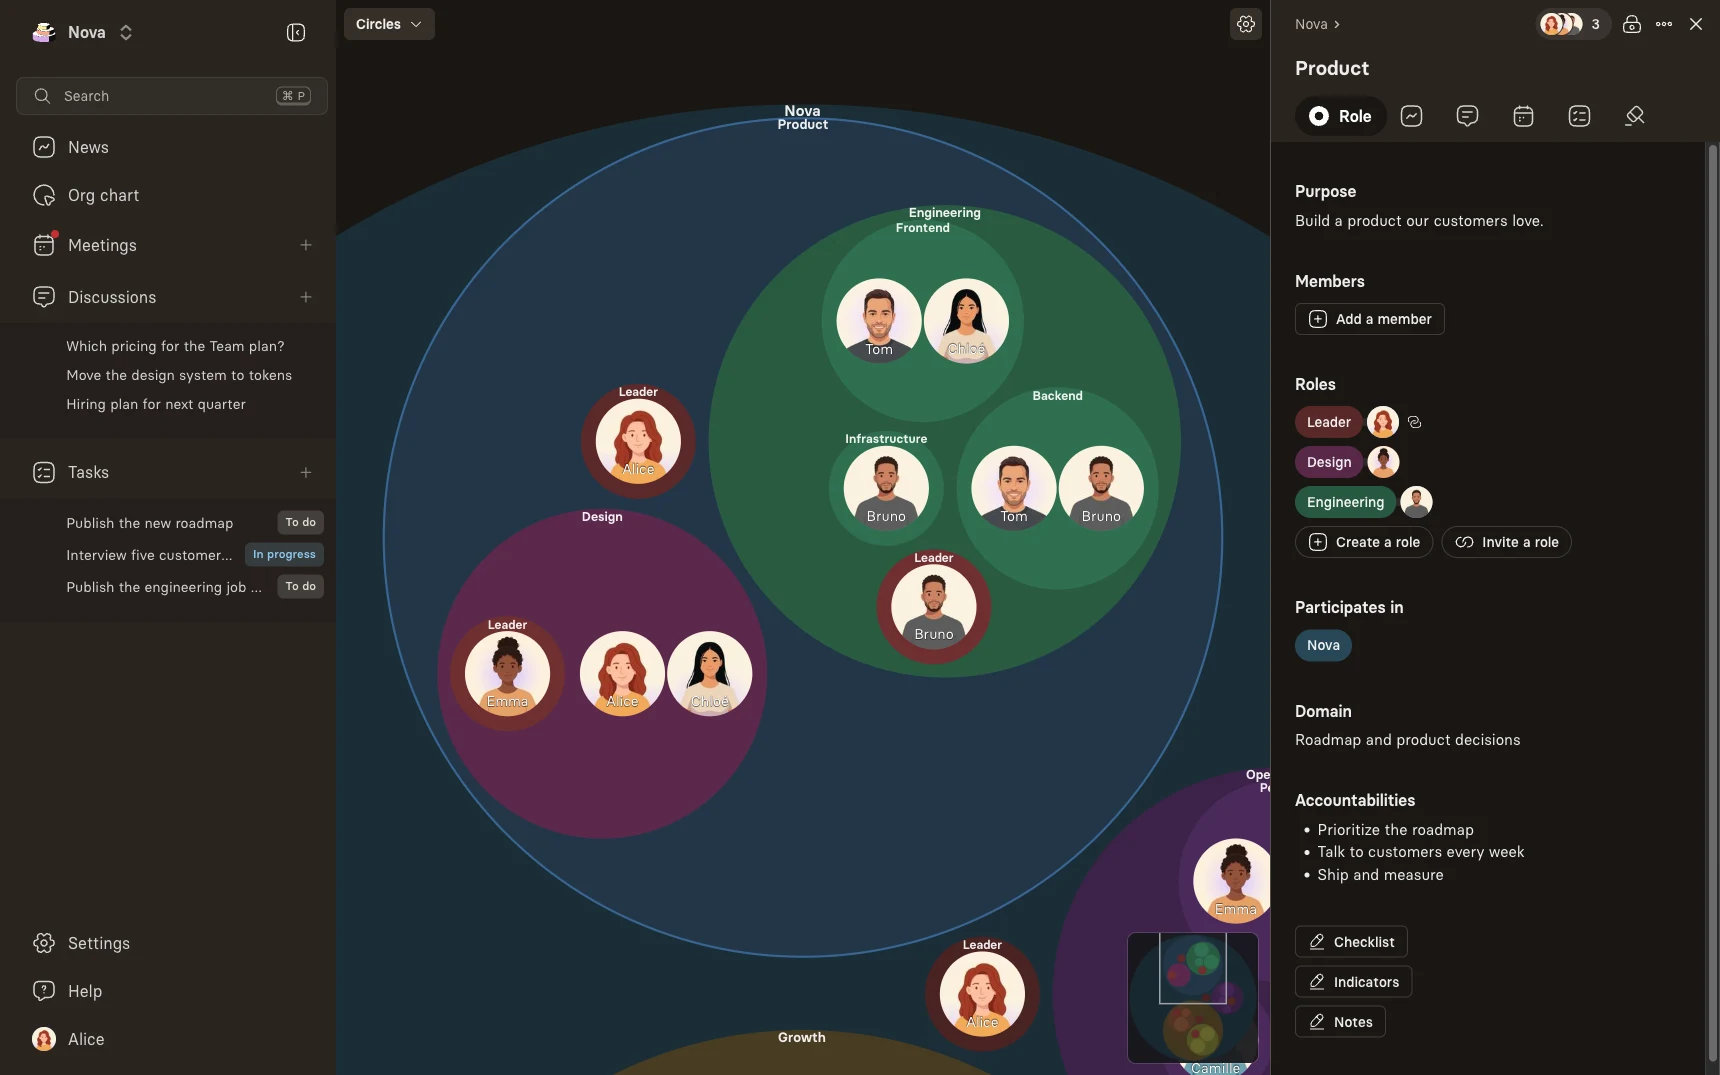
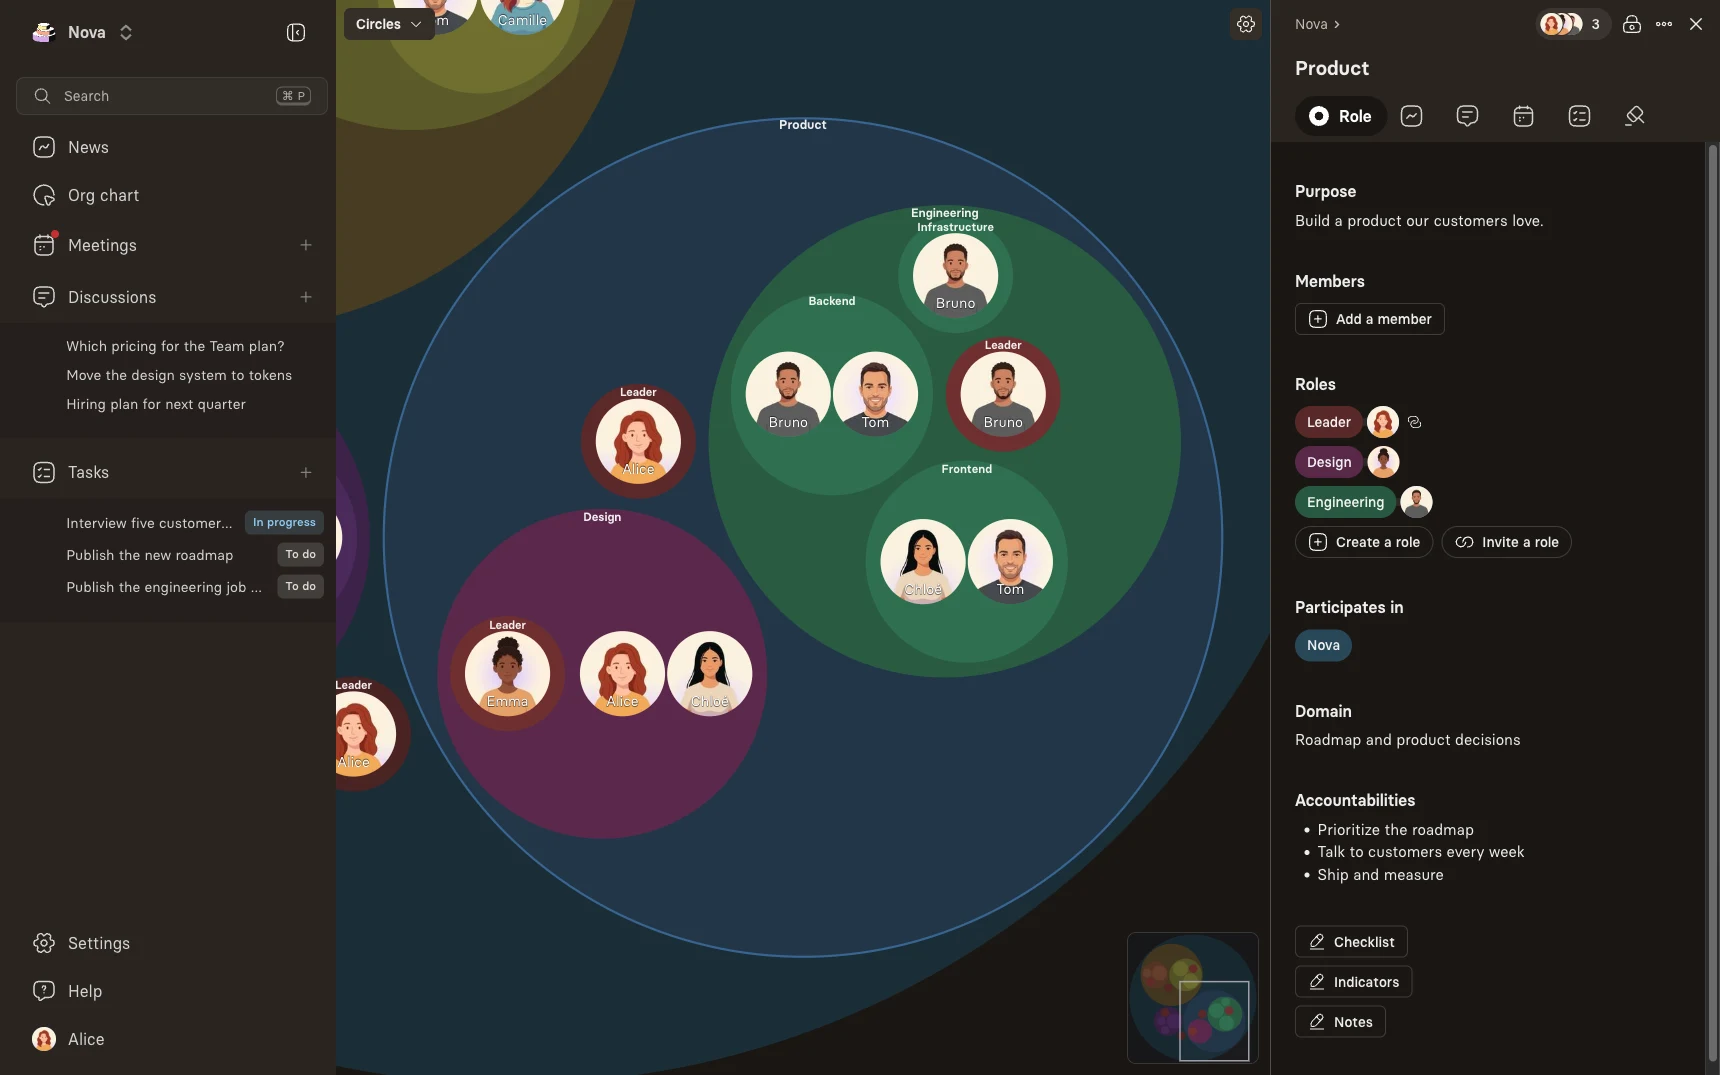
fix(graph): évite le chevauchement du titre d'un rôle avec celui de son parent

diff --git a/packages/graph/src/core/culling.ts b/packages/graph/src/core/culling.ts
@@ -7,6 +7,7 @@ import {
   TreeLink,
   VisibleNodes,
 } from '../types'
+import { textWidthEm } from './layouts/tree'
 
 export interface CullingParams {
   root: NodeData
@@ -270,7 +271,7 @@ function computeTitleVisibility(
   k: number,
   graphMinSize: number
 ): TitleVisibility {
-  const { threshold, topThreshold, gap, rate } = settings.titles
+  const { threshold, gap } = settings.titles
   const size = node.r * 2
   const parent = node.parent
   const isRootChild = !parent || parent.data.id === 'root'
@@ -285,10 +286,63 @@ function computeTitleVisibility(
     onScreen < threshold &&
     (isRootChild || parentOnScreen > threshold)
 
-  // Top title: zoom scale at/above 1, or circle big enough on screen
-  const top = k >= 1 - 1 / rate || onScreen >= topThreshold
+  return {
+    center,
+    top: isTopLabelShown(node, k, graphMinSize),
+    topShift: topLabelShift(node, k, graphMinSize),
+  }
+}
 
-  return { center, top }
+// Top title: zoom scale at/above 1, or circle big enough on screen
+function isTopLabelShown(node: NodeData, k: number, graphMinSize: number) {
+  const { topThreshold, rate } = settings.titles
+  return k >= 1 - 1 / rate || (k * node.r * 2) / graphMinSize >= topThreshold
+}
+
+// On-screen font size of a top label. Its scale compensates for the zoom scale
+// (see topScale in CircleTitleElement).
+function topLabelFontSize(node: NodeData, k: number) {
+  const { baseSize, topFontSize } = settings.titles
+  const baseSizeRatio = (node.r * 2) / baseSize
+  return topFontSize * 0.2 * (1 + baseSizeRatio / 10) * (1 + k / 2)
+}
+
+// A sub-role touching the top of its parent would draw its label over the one
+// of its parent: it moves down just enough to clear it. Parents are resolved
+// first, since a label that moved can push the one of its own sub-role.
+function topLabelShift(
+  node: NodeData,
+  k: number,
+  graphMinSize: number
+): number {
+  const { topOffset, topGap } = settings.titles
+  const parent = node.parent
+  if (
+    !parent ||
+    parent.data.id === 'root' ||
+    parent.data.type !== NodeType.Circle ||
+    !isTopLabelShown(parent, k, graphMinSize)
+  ) {
+    return 0
+  }
+
+  const fontSize = topLabelFontSize(node, k)
+  const parentFontSize = topLabelFontSize(parent, k)
+
+  // Labels are centered above their circle
+  const distanceX = Math.abs(node.x - parent.x) * k
+  const halfWidths =
+    (textWidthEm(node.data.name ?? '') * fontSize +
+      textWidthEm(parent.data.name ?? '') * parentFontSize) /
+    2
+  if (distanceX >= halfWidths) return 0
+
+  // Labels hang from their bottom edge
+  const bottom = (node.y - node.r + topOffset) * k
+  const parentBottom =
+    (parent.y - parent.r + topOffset) * k +
+    topLabelShift(parent, k, graphMinSize)
+  return Math.max(0, parentBottom + topGap + fontSize - bottom)
 }
 
 // Conservative test of a circle title visibility, derived from the CSS

diff --git a/packages/graph/tests/culling.test.ts b/packages/graph/tests/culling.test.ts
@@ -1137,3 +1137,53 @@ describe('minimap nodes', () => {
     expect(minimapNodes(layout.nodes, 0)).toHaveLength(1)
   })
 })
+
+describe('top label of a sub-role', () => {
+  const node = (
+    id: string,
+    name: string,
+    x: number,
+    y: number,
+    r: number,
+    parent?: any
+  ): any => ({
+    data: { id, name, type: NodeType.Circle },
+    parent,
+    x,
+    y,
+    r,
+    w: r * 2,
+    h: r * 2,
+    shape: NodeShape.Circle,
+    bounds: { x0: x - r, y0: y - r, x1: x + r, y1: y + r },
+  })
+
+  // The parent spans the whole chart, its only child is `r` wide at `x`, `y`
+  const shiftOf = (childX: number, childY: number, childR: number) => {
+    const root = node('root', 'root', 0, 0, 1000)
+    const parent = node('parent', 'Product', 0, 0, 500, root)
+    const child = node('child', 'Engineering', childX, childY, childR, parent)
+    root.children = [parent]
+    parent.children = [child]
+    const { titleVisibility } = computeVisibleNodes({
+      root,
+      transform: { x: 500, y: 500, k: 1 },
+      width: 1000,
+      height: 1000,
+      graphMinSize: 1000,
+    })
+    return titleVisibility.get('child')?.topShift
+  }
+
+  it('moves down to clear the label of a parent it touches', () => {
+    expect(shiftOf(0, -200, 300)).toBeGreaterThan(0)
+  })
+
+  it('stays in place when the parent label is far above', () => {
+    expect(shiftOf(0, 0, 200)).toBe(0)
+  })
+
+  it('stays in place when the labels are side by side', () => {
+    expect(shiftOf(350, -130, 370)).toBe(0)
+  })
+})

diff --git a/packages/graph/src/core/layouts/tree.ts b/packages/graph/src/core/layouts/tree.ts
@@ -31,10 +31,15 @@ function charWidth(char: string): number {
   return 0.53
 }
 
-function textWidth(text: string): number {
+// Estimated width of a text, for a font size of 1
+export function textWidthEm(text: string): number {
   let width = 0
   for (const char of text) width += charWidth(char)
-  return width * t.titleFontSize * t.titleWidthSafety
+  return width * t.titleWidthSafety
+}
+
+function textWidth(text: string): number {
+  return textWidthEm(text) * t.titleFontSize
 }
 
 // Lines a wrapped title takes, capped so one pathological name cannot stretch
@@ -258,9 +263,9 @@ export function computeTreeLayout(data: Data): Layout {
         // culling pass would drop it (and its members) before they are tested
         const rowsHeight = membersHeight(members.length)
         node.x = card?.x ?? 0
-        node.y = rowsHeight > 0 ? top + rowsHeight / 2 : card?.y ?? 0
+        node.y = rowsHeight > 0 ? top + rowsHeight / 2 : (card?.y ?? 0)
         node.w = card?.w ?? 0
-        node.h = rowsHeight > 0 ? rowsHeight : card?.h ?? 0
+        node.h = rowsHeight > 0 ? rowsHeight : (card?.h ?? 0)
         node.r = Math.hypot(node.w, node.h) / 2
         node.shape = NodeShape.Circle
         return

diff --git a/packages/graph/src/react/nodes/CircleTitleElement.tsx b/packages/graph/src/react/nodes/CircleTitleElement.tsx
@@ -15,7 +15,7 @@ interface Props {
   hidden?: boolean
 }
 
-const { baseSize, centerCoverage } = settings.titles
+const { baseSize, centerCoverage, topOffset } = settings.titles
 
 // Memoized: a culling pass only re-renders changed elements
 export default memo(function CircleTitleElement({
@@ -106,7 +106,11 @@ export default memo(function CircleTitleElement({
         className="circle-title-top"
         style={{
           bottom: `${baseSize}px`,
-          translate: `0px ${10 / baseSizeRatio}px`,
+          // topShift is on screen, the title is scaled with its node and the zoom
+          translate: `0px ${
+            (topOffset + (visibility?.topShift ?? 0) / cullScale) /
+            baseSizeRatio
+          }px`,
           // Roughly constant on-screen size (see topScale above)
           scale: topScale.toString(),
           // Shown when the circle is big enough on screen, as a discrete step

diff --git a/packages/graph/src/react/styles.ts b/packages/graph/src/react/styles.ts
@@ -10,7 +10,7 @@ const linkFade = `opacity ${moveTransition}`
 // Should be low enough to not glitch when scaling
 export const nodeSize = 200
 
-const { baseSize } = settings.titles
+const { baseSize, topFontSize } = settings.titles
 const {
   cardRadius,
   cardBorder,
@@ -382,7 +382,7 @@ export const graphStyles = `
   position: absolute;
   transform-origin: bottom center;
   /* Acceptable font size for a one-member role at zoom-scale 3 and scale 1 */
-  font-size: 36px;
+  font-size: ${topFontSize}px;
   max-height: 2em;
   min-width: 130%;
   word-wrap: normal;

diff --git a/packages/graph/src/types.ts b/packages/graph/src/types.ts
@@ -199,6 +199,8 @@ export interface TitleVisibility {
   center: boolean
   // Small label above the circle, shown when it is big enough on screen
   top: boolean
+  // On-screen distance the label moves down to clear the label of its parent
+  topShift: number
 }
 
 // Result of the culling pass: nodes and titles to mount in the DOM

diff --git a/packages/graph/src/settings.ts b/packages/graph/src/settings.ts
@@ -139,5 +139,10 @@ export default {
     rate: 100,
     threshold: 2 / 3,
     topThreshold: 2 / 3,
+    // Top label: font size before scaling, distance from the top of the circle
+    // in layout units, and on-screen gap kept with the label of the parent
+    topFontSize: 36,
+    topOffset: 10,
+    topGap: 2,
   },
 }
